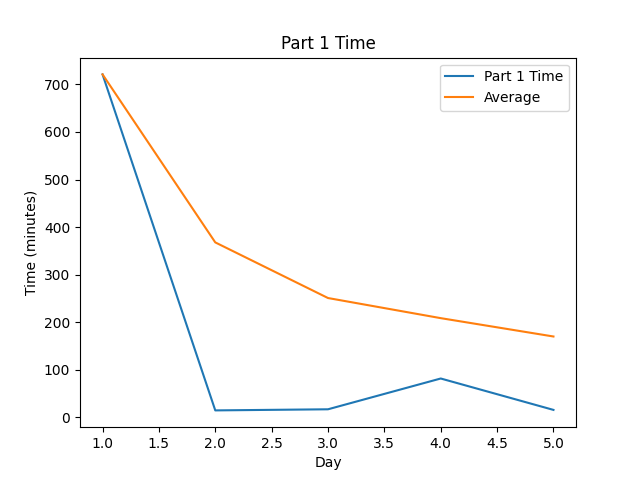
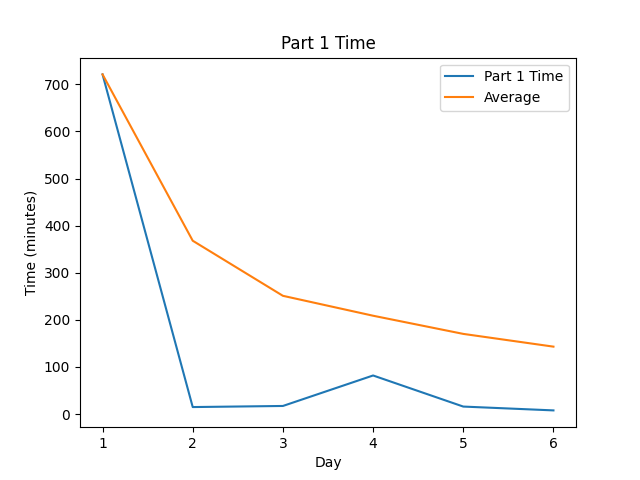
Day 6 ✅

diff --git a/src/day06/solution.rs b/src/day06/solution.rs
@@ -1,0 +1,32 @@
+fn fish_count(input: String, days: usize) -> i64 {
+    let mut fish_memo = vec![];
+    let fish = input
+        .split(',')
+        .map(|x| x.trim().parse::<i32>().unwrap())
+        .collect::<Vec<i32>>();
+    for i in 0..=7 {
+        // Fill with starter fish's spawn counts for the appropriate day
+        fish_memo.push(fish.iter().filter(|x| **x == i as i32).count() as i64);
+    }
+    let mut fish_count = fish.len() as i64;
+    let mut delayed_fish = vec![0; 7];
+    for i in 0..days {
+        // Increase based on the fish that split a week ago (plus those that were spawned 8 days
+        // ago)
+        fish_count += fish_memo[i % 7];
+        // Update fish spawn counts for the appropriate day with the fish that were born 8 days ago
+        fish_memo[(i + 2) % 7] += delayed_fish[i % 7];
+        // Since fish take more than a week for first spawn, hold onto their spawn count in a vector
+        // to use a week later
+        delayed_fish[i % 7] = fish_memo[i % 7];
+    }
+    fish_count
+}
+
+pub fn part1(input: String) -> i64 {
+    fish_count(input, 80)
+}
+
+pub fn part2(input: String) -> i64 {
+    fish_count(input, 256)
+}

diff --git a/scripts/generate_stats.py b/scripts/generate_stats.py
@@ -175,7 +175,7 @@ def generate_graphs(results: Dict[Tuple[Union[int, Any], int], OrderedDict]) -> 
     _generate_graph(score_b, y_axis="Score", title="Part 2 Score", output_file=OUTPUT_DIR + "part2score.png")
 
 
-def print_table(results: Dict[Tuple[Union[int, Any], int], OrderedDict]) -> None:
+def get_table(results: Dict[Tuple[Union[int, Any], int], OrderedDict]) -> None:
     # Note: the ~~ is necessary to side-step the issue of eval not saving new lines in makefiles
     output_string = "| %3s | %26s | %26s |" % ("Day", "Part 1 Time (Rank) (Score)", "Part 2 Time (Rank) (Score)") \
                     + NEW_LINE_REPLACER

diff --git a/tests/test_day06.rs b/tests/test_day06.rs
@@ -1,0 +1,17 @@
+use aoc_2021::day06 as day;
+
+#[test]
+fn test_part1() {
+    let inputs = "3,4,3,1,2";
+    let expected = 5934;
+    let result = day::part1(inputs.to_string());
+    assert_eq!(expected, result);
+}
+
+#[test]
+fn test_part2() {
+    let inputs = "3,4,3,1,2";
+    let expected = 26984457539;
+    let result = day::part2(inputs.to_string());
+    assert_eq!(expected, result);
+}

diff --git a/src/main.rs b/src/main.rs
@@ -25,6 +25,7 @@ fn get_day_fns() -> (PartFunction, PartFunction) {
         3 => (day03::part1, day03::part2),
         4 => (day04::part1, day04::part2),
         5 => (day05::part1, day05::part2),
+        6 => (day06::part1, day06::part2),
 // CASE_MARKER
         _ => {
             panic!("Invalid day number: {}", day_num);

diff --git a/src/lib.rs b/src/lib.rs
@@ -3,3 +3,4 @@
 #[path = "day03/solution.rs"] pub mod day03;
 #[path = "day04/solution.rs"] pub mod day04;
 #[path = "day05/solution.rs"] pub mod day05;
+#[path = "day06/solution.rs"] pub mod day06;

diff --git a/src/day06/README.md b/src/day06/README.md
@@ -1,0 +1,66 @@
+\--- Day 6: Lanternfish ---
+---------------------------
+
+The sea floor is getting steeper. Maybe the sleigh keys got carried this way?
+
+A massive school of glowing [lanternfish](https://en.wikipedia.org/wiki/Lanternfish) swims past. They must spawn quickly to reach such large numbers - maybe _exponentially_ quickly? You should model their growth rate to be sure.
+
+Although you know nothing about this specific species of lanternfish, you make some guesses about their attributes. Surely, each lanternfish creates a new lanternfish once every _7_ days.
+
+However, this process isn't necessarily synchronized between every lanternfish - one lanternfish might have 2 days left until it creates another lanternfish, while another might have 4. So, you can model each fish as a single number that represents _the number of days until it creates a new lanternfish_.
+
+Furthermore, you reason, a _new_ lanternfish would surely need slightly longer before it's capable of producing more lanternfish: two more days for its first cycle.
+
+So, suppose you have a lanternfish with an internal timer value of `3`:
+
+*   After one day, its internal timer would become `2`.
+*   After another day, its internal timer would become `1`.
+*   After another day, its internal timer would become `0`.
+*   After another day, its internal timer would reset to `6`, and it would create a _new_ lanternfish with an internal timer of `8`.
+*   After another day, the first lanternfish would have an internal timer of `5`, and the second lanternfish would have an internal timer of `7`.
+
+A lanternfish that creates a new fish resets its timer to `6`, _not `7`_ (because `0` is included as a valid timer value). The new lanternfish starts with an internal timer of `8` and does not start counting down until the next day.
+
+Realizing what you're trying to do, the submarine automatically produces a list of the ages of several hundred nearby lanternfish (your puzzle input). For example, suppose you were given the following list:
+
+    3,4,3,1,2
+
+This list means that the first fish has an internal timer of `3`, the second fish has an internal timer of `4`, and so on until the fifth fish, which has an internal timer of `2`. Simulating these fish over several days would proceed as follows:
+
+    Initial state: 3,4,3,1,2
+    After  1 day:  2,3,2,0,1
+    After  2 days: 1,2,1,6,0,8
+    After  3 days: 0,1,0,5,6,7,8
+    After  4 days: 6,0,6,4,5,6,7,8,8
+    After  5 days: 5,6,5,3,4,5,6,7,7,8
+    After  6 days: 4,5,4,2,3,4,5,6,6,7
+    After  7 days: 3,4,3,1,2,3,4,5,5,6
+    After  8 days: 2,3,2,0,1,2,3,4,4,5
+    After  9 days: 1,2,1,6,0,1,2,3,3,4,8
+    After 10 days: 0,1,0,5,6,0,1,2,2,3,7,8
+    After 11 days: 6,0,6,4,5,6,0,1,1,2,6,7,8,8,8
+    After 12 days: 5,6,5,3,4,5,6,0,0,1,5,6,7,7,7,8,8
+    After 13 days: 4,5,4,2,3,4,5,6,6,0,4,5,6,6,6,7,7,8,8
+    After 14 days: 3,4,3,1,2,3,4,5,5,6,3,4,5,5,5,6,6,7,7,8
+    After 15 days: 2,3,2,0,1,2,3,4,4,5,2,3,4,4,4,5,5,6,6,7
+    After 16 days: 1,2,1,6,0,1,2,3,3,4,1,2,3,3,3,4,4,5,5,6,8
+    After 17 days: 0,1,0,5,6,0,1,2,2,3,0,1,2,2,2,3,3,4,4,5,7,8
+    After 18 days: 6,0,6,4,5,6,0,1,1,2,6,0,1,1,1,2,2,3,3,4,6,7,8,8,8,8
+    
+
+Each day, a `0` becomes a `6` and adds a new `8` to the end of the list, while each other number decreases by 1 if it was present at the start of the day.
+
+In this example, after 18 days, there are a total of `26` fish. After 80 days, there would be a total of `_5934_`.
+
+Find a way to simulate lanternfish. _How many lanternfish would there be after 80 days?_
+
+
+
+\--- Part Two ---
+-----------------
+
+Suppose the lanternfish live forever and have unlimited food and space. Would they take over the entire ocean?
+
+After 256 days in the example above, there would be a total of `_26984457539_` lanternfish!
+
+_How many lanternfish would there be after 256 days?_

diff --git a/README.md b/README.md
@@ -11,7 +11,7 @@
 
 #### Interesting approaches:
 
-* 
+* [Day 6]: Gotta love a good memoization problem
 
 #### Leaderboard appearances:
 
@@ -25,7 +25,8 @@
 |   3 | 00:17:07 ( 6083) (  0)     | 00:57:45 ( 6324) (  0)     |
 |   4 | 01:21:50 ( 7726) (  0)     | 01:24:40 ( 6294) (  0)     |
 |   5 | 00:15:50 ( 1712) (  0)     | 00:49:02 ( 4106) (  0)     |
-| Avg | 02:50:07 (18269) (  0)     | 03:06:38 (16399) (  0)     |
+|   6 | 00:07:42 ( 1898) (  0)     | 00:38:18 ( 4676) (  0)     |
+| Avg | 02:23:02 (15540) (  0)     | 02:41:54 (14445) (  0)     |
 
 
 <!--suppress CheckImageSize -->
@@ -33,6 +34,9 @@
 <img alt="Part 1 Time Stats" src="statsImages/part1time.png" width=400> <img alt="Part 2 Time Stats" src="statsImages/part2time.png" width=400>
 
 Note: Times are from time of challenge release, not start time to completion time
+
+# Other Years' Solutions
+[List of Advent of Code Repos](https://github.com/hbiede/hbiede/blob/main/aoc.md)
 
 ## Scripting initially based on a script from [Ullaakut](https://github.com/Ullaakut/aoc19). Expanded upon and fixed by [HBiede](https://github.com/hbiede)
 #### Makefile Automation

diff --git a/README_template.md b/README_template.md
@@ -11,7 +11,7 @@
 
 #### Interesting approaches:
 
-* 
+* [Day 6]: Gotta love a good memoization problem
 
 #### Leaderboard appearances:
 
